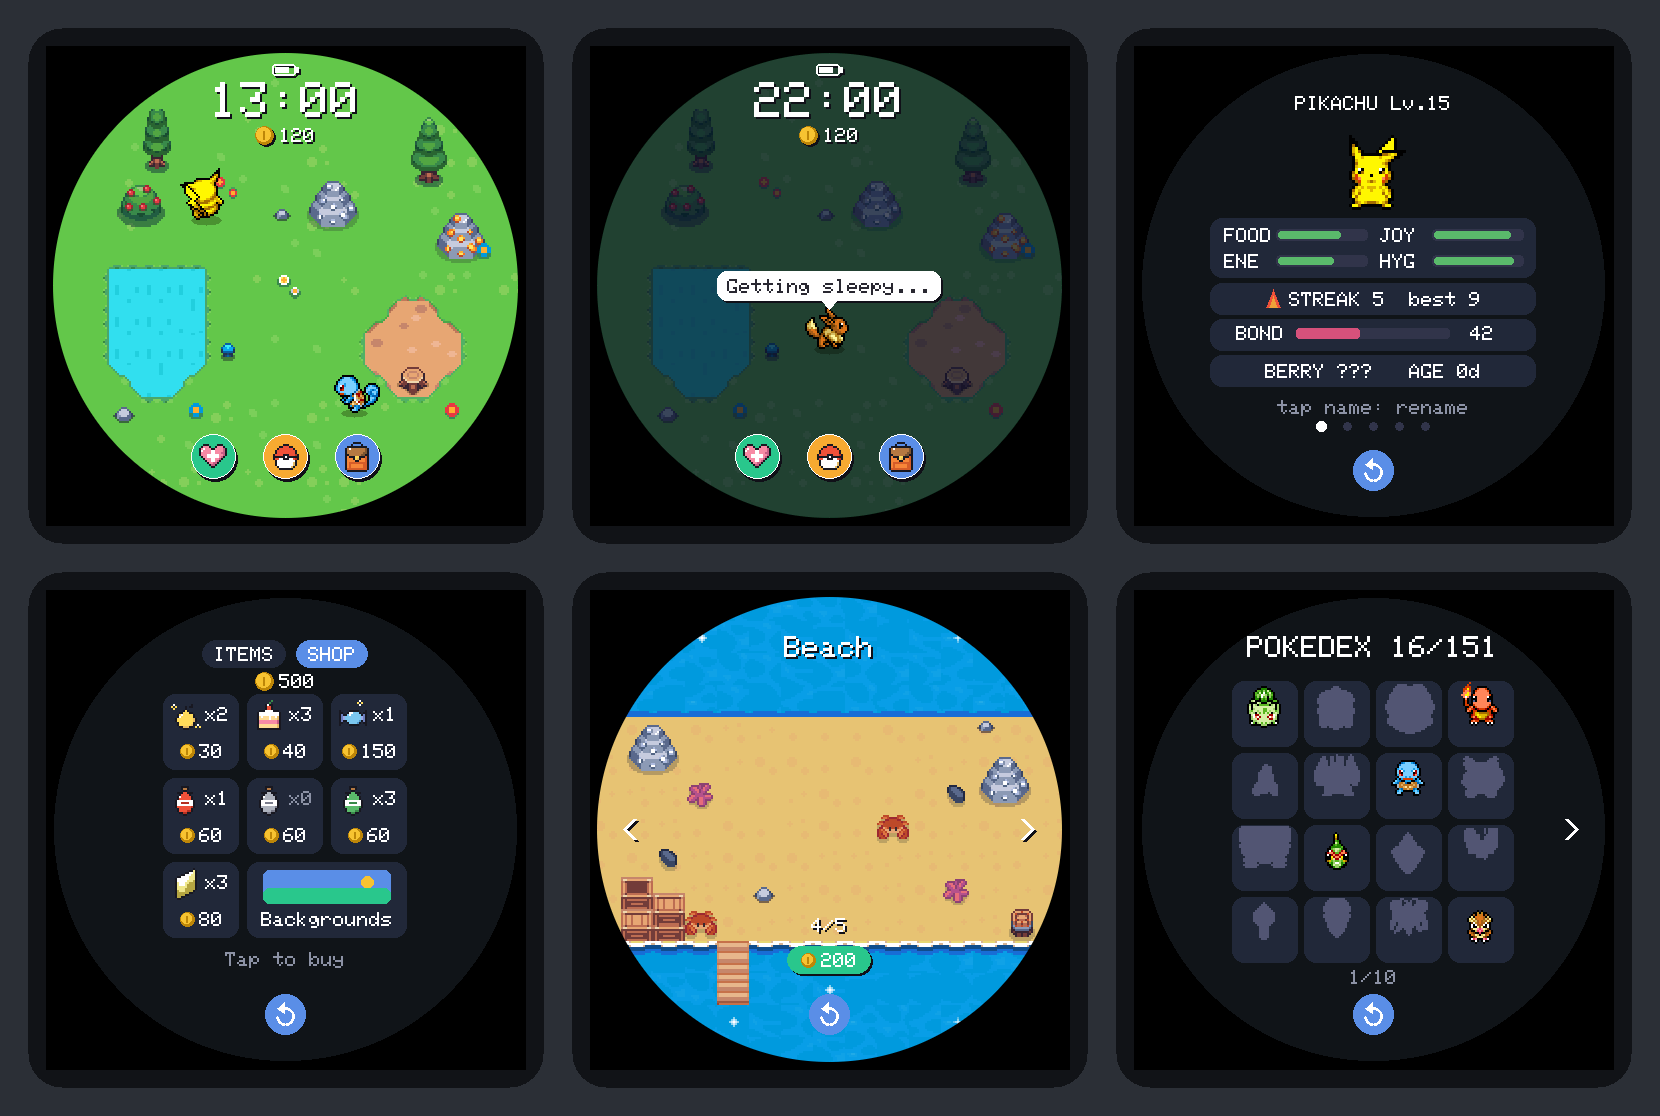
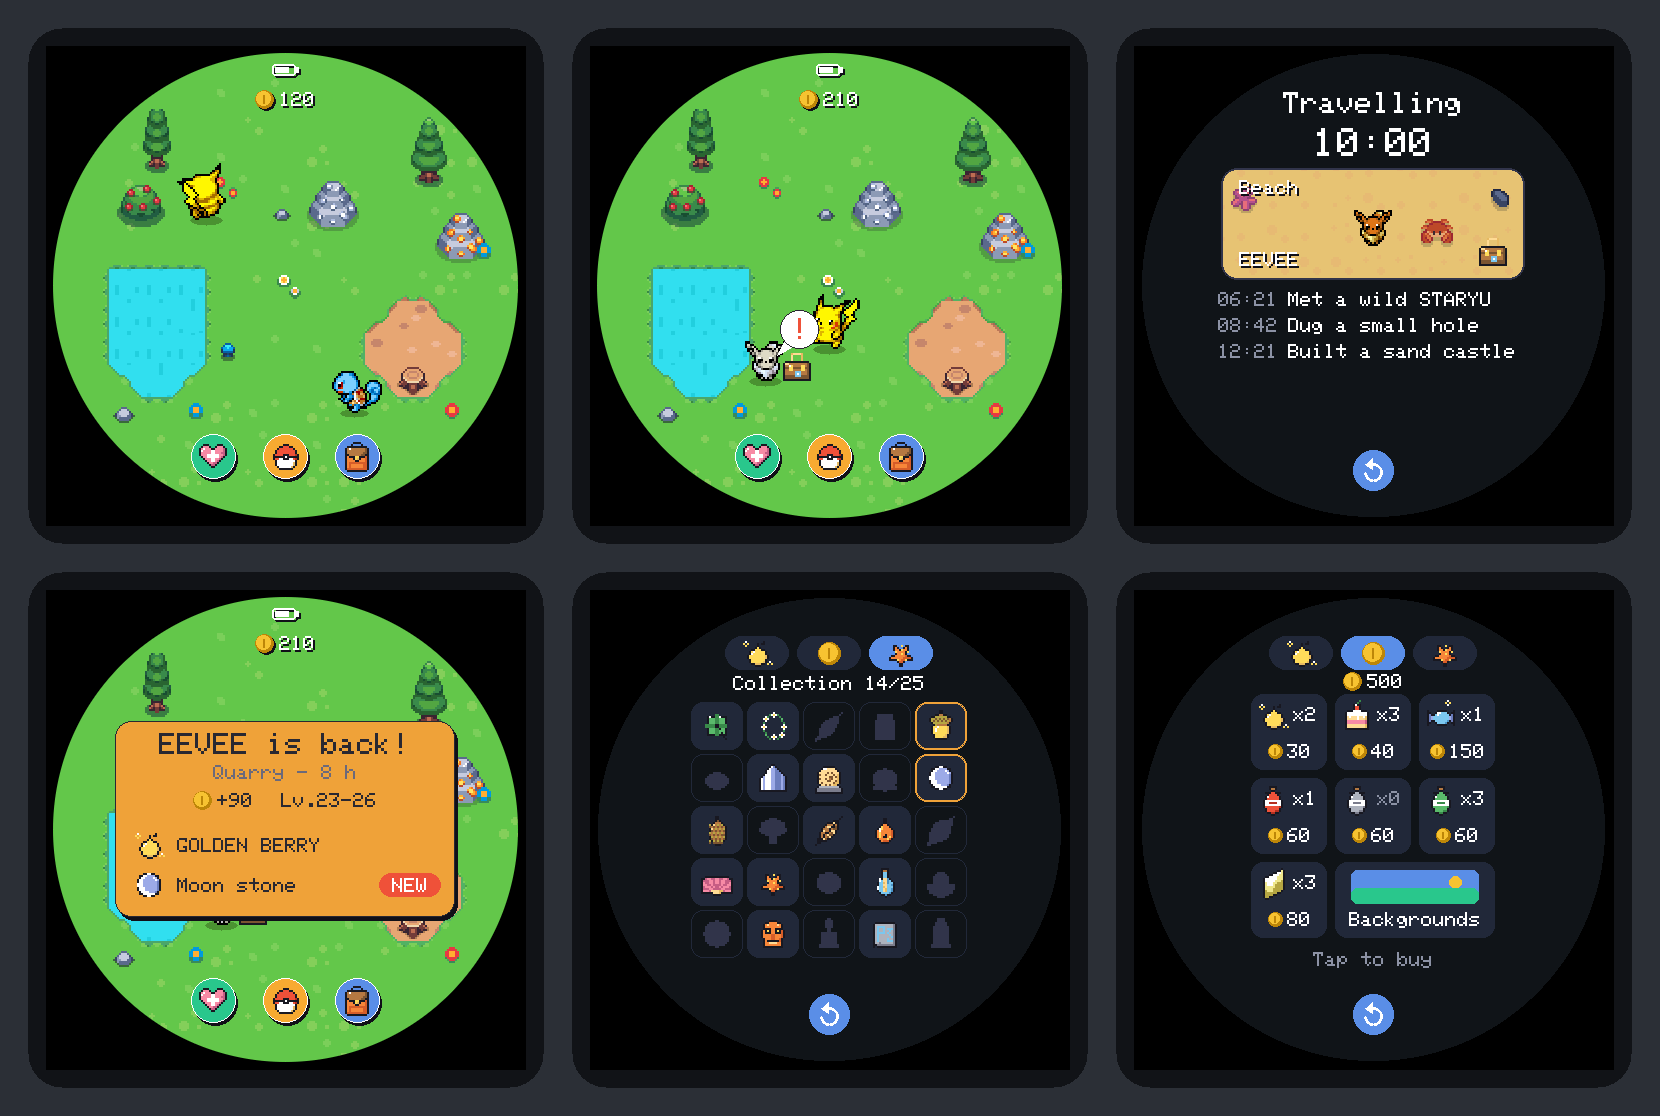
v2.1: travel and the Collection (version, changelog, README, contact sheet)

diff --git a/tools/render/render.cpp b/tools/render/render.cpp
@@ -1464,7 +1464,7 @@ static const std::vector<Scene> &scenes() {
 }
 
 // the README's contact sheet: a few screens on the square glass
-static const char *const SHEET[] = { "yard-home-two", "yard-home-night", "card-profile", "shop-rich", "picker-notowned", "gallery" };
+static const char *const SHEET[] = { "yard-home-two", "travel-back-yard", "travel-trip-late", "travel-back-new", "collection-partial", "shop-rich" };
 
 int main(int argc, char **argv) {
   if (argc < 2) {

diff --git a/README.md b/README.md
@@ -1,7 +1,7 @@
 # TamaPoke
 
 ![Board](https://img.shields.io/badge/board-ESP32--S3%20AMOLED%202.16-E7352C?logo=espressif&logoColor=white)
-![Firmware](https://img.shields.io/badge/firmware-v2.0-8A2BE2)
+![Firmware](https://img.shields.io/badge/firmware-v2.1-8A2BE2)
 [![CI](https://github.com/Ale-Cuevas/TamaPoke/actions/workflows/ci.yml/badge.svg)](https://github.com/Ale-Cuevas/TamaPoke/actions/workflows/ci.yml)
 ![Code](https://img.shields.io/badge/code-MIT-blue)
 ![Languages](https://img.shields.io/badge/languages-8-FFCB05)
@@ -18,7 +18,7 @@ square panel inside a smooth round frame, with the rest of the panel black (on
 an AMOLED, black pixels are simply off). How and why:
 **[docs/AMOLED-2.16.md](docs/AMOLED-2.16.md)**.
 
-![TamaPoke v2.0 on the AMOLED-2.16: the yard by day and at night, stat card, Shop, background picker and Pokédex](docs/images/screens-216.png)
+![TamaPoke v2.1 on the AMOLED-2.16: the yard, a pet back from a trip, the trip view, the return banner, the Collection and the Shop](docs/images/screens-216.png)
 
 <sub>Rendered from the real firmware drawing code by `tools/render/render.sh`:
 these are the pixels the panel receives.</sub>
@@ -31,11 +31,18 @@ these are the pixels the panel receives.</sub>
 
 **v2.0: the yard.** The home is now a top-down pixel-art yard where the pet (and the first pet of the Box)
 wanders, eats food dropped on the grass, leaves poops and finds gifts where it stands, and says how it feels
-in speech bubbles. A thin HUD floats on top: the clock, the battery, your **coins** and a 3-button dock
+in speech bubbles. A thin HUD floats on top: the battery, your **coins** and a 3-button dock
 (**Care**, **Play**, **Bag**). Eggs sit in the yard and hatch in 2 h (shake the board to speed them up).
 Games, stages and walks earn coins to spend in the **Shop** (a tab of the Bag): items, and new
 **backgrounds** for the yard. Menus are dark panels. The maps come from the Sunnyside World tile pack and are
 packed on your PC (see [Yard backgrounds](#yard-backgrounds)). Design: [docs/yard-prototype/DESIGN_YARD_UI.md](docs/yard-prototype/DESIGN_YARD_UI.md).
+
+**v2.1: travel and the Collection.** From the Play panel, send a Box pet on a 1 h, 3 h or 8 h trip to one of
+your backgrounds (real time, also with the board off; needs the clock set). The trip view shows a countdown
+and a log of what happened. Back home, the pet waits in the yard with its suitcase and a "!": tap it to see
+what it brought (coins, growth, sometimes an item, often a souvenir). The 25 souvenirs, 5 per background,
+fill the **Collection**, the third tab of the Bag. Serial `TRAVEL`, `TRAVEL <slot> <map> <0-2>`,
+`TRAVELT <min>`, `TRAVELEND`, `SOUV [mask]`.
 
 **AMOLED-2.16 port (v1.19):** builds (PlatformIO and arduino-cli, pinned
 versions), passes the host test suite, and every screen has been rendered and
@@ -742,7 +749,7 @@ python3 tools/send_sd.py --yard                          # send them to the boar
 
 Each map is a 15×15 text grid (`tools/yard/maps/NN-name.txt`) with a legend
 (`tools/yard/legends/sunnyside.txt`); the packer also writes the walk mask (where pets may stand) and keeps
-the clock, the dock and the round edge clear. Serial `YARDBG <n>` previews a map without buying it.
+the HUD, the dock and the round edge clear. Serial `YARDBG <n>` previews a map without buying it.
 
 ## Layout
 

diff --git a/docs/PENDING_TESTS.md b/docs/PENDING_TESTS.md
@@ -90,8 +90,8 @@ Write the result on each line: a tick, or what you saw.
 | 81 | feature/yard Y5 trip view: the countdown ticks every second, the pet sits in the destination window, events appear as time passes (`TRAVELT 30` to jump) as "HH:MM text"; the travelling pet is gone from the yard and can't be picked for a stage team; the Box shows the suitcase and time left, a tap shows "away" instead of the wake dialog | [Yard design](yard-prototype/DESIGN_YARD_UI.md) | ✓ |
 | 82 | feature/yard Y5 return: `TRAVELEND` (or wait) → on the yard home a banner "<name> is back!" with coins, level, item, souvenir NEW (a duplicate shows +10); a tap closes it and the coins/bag/collection match; a trip that ends with the board off shows the banner after power-on | [Yard design](yard-prototype/DESIGN_YARD_UI.md) | ✓ |
 | 83 | feature/yard Y5 Collection: Bag → the 3 icon tabs by tap and swipe; Collection N/25 grid, found souvenirs in colour (rare with gold frame), tap → card with name, place, rarity, "Found on DD/MM"; unknown → "???"; EN and ES | [Yard design](yard-prototype/DESIGN_YARD_UI.md) | ✓ |
-| 84 | feature/yard travel return in the yard: `TRAVELEND` → the traveller appears in the yard standing still with a suitcase and a "!" (a small chime), no banner yet; tap the pet or the "!" → the banner; a quick second tap doesn't close it, a later tap does, and the pet goes back to wandering without the "!" | [Yard design](yard-prototype/DESIGN_YARD_UI.md) | ____ |
-| 85 | feature/yard yard HUD and pet size: no clock on the yard, coins just below the battery and not clipped by the round edge; pets about 10 % bigger without broken pixels, taps on them and on poop/gifts still land | [Yard design](yard-prototype/DESIGN_YARD_UI.md) | ____ |
+| 84 | feature/yard travel return in the yard: `TRAVELEND` → the traveller appears in the yard standing still with a suitcase and a "!" (a small chime), no banner yet; tap the pet or the "!" → the banner; a quick second tap doesn't close it, a later tap does, and the pet goes back to wandering without the "!" | [Yard design](yard-prototype/DESIGN_YARD_UI.md) | ✓ |
+| 85 | feature/yard yard HUD and pet size: no clock on the yard, coins just below the battery and not clipped by the round edge; pets about 10 % bigger without broken pixels, taps on them and on poop/gifts still land | [Yard design](yard-prototype/DESIGN_YARD_UI.md) | ✓ |
 
 Questions only the board can answer:
 - Where is the USB-C port relative to the screen's top? Bottom edge (buttons on top).

diff --git a/CHANGELOG.md b/CHANGELOG.md
@@ -6,7 +6,7 @@ bottom of the clock/settings screen (swipe down) and `web/manifest.json`.
 Updating from the web installer (`web/`) **without** ticking "Erase device"
 keeps your Pokémon.
 
-## [Unreleased]
+## [2.1] - 2026-11-17
 
 ### Added
 
